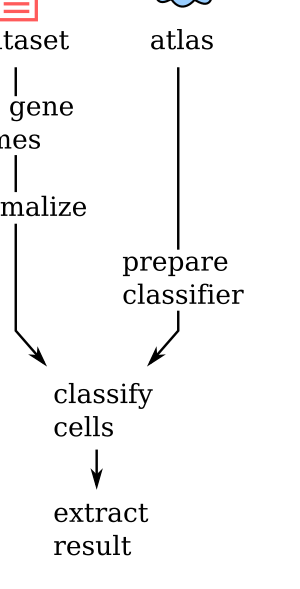
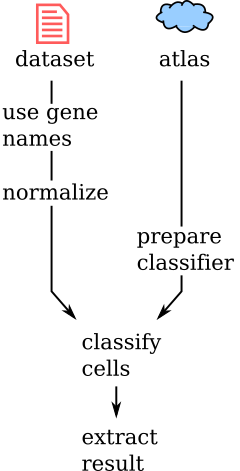
Borders of tutorial flowchart

Changed region(s): [[0.0, 0.0, 0.9917, 1.0], [0.4958, 0.0, 0.9042, 0.1486], [0.0583, 0.5648, 0.175, 0.6242]]

diff --git a/docs/tutorial.rst b/docs/tutorial.rst
@@ -8,7 +8,7 @@ the end of the tutorial, you can look at some :doc:`/examples` and at the detail
 Flowchart
 ---------
 .. image:: _static/tutorial_flowchart.png
-   :width: 300
+   :width: 240
    :alt: tutorial flowchart
 
 Intro: atlas landmarks
